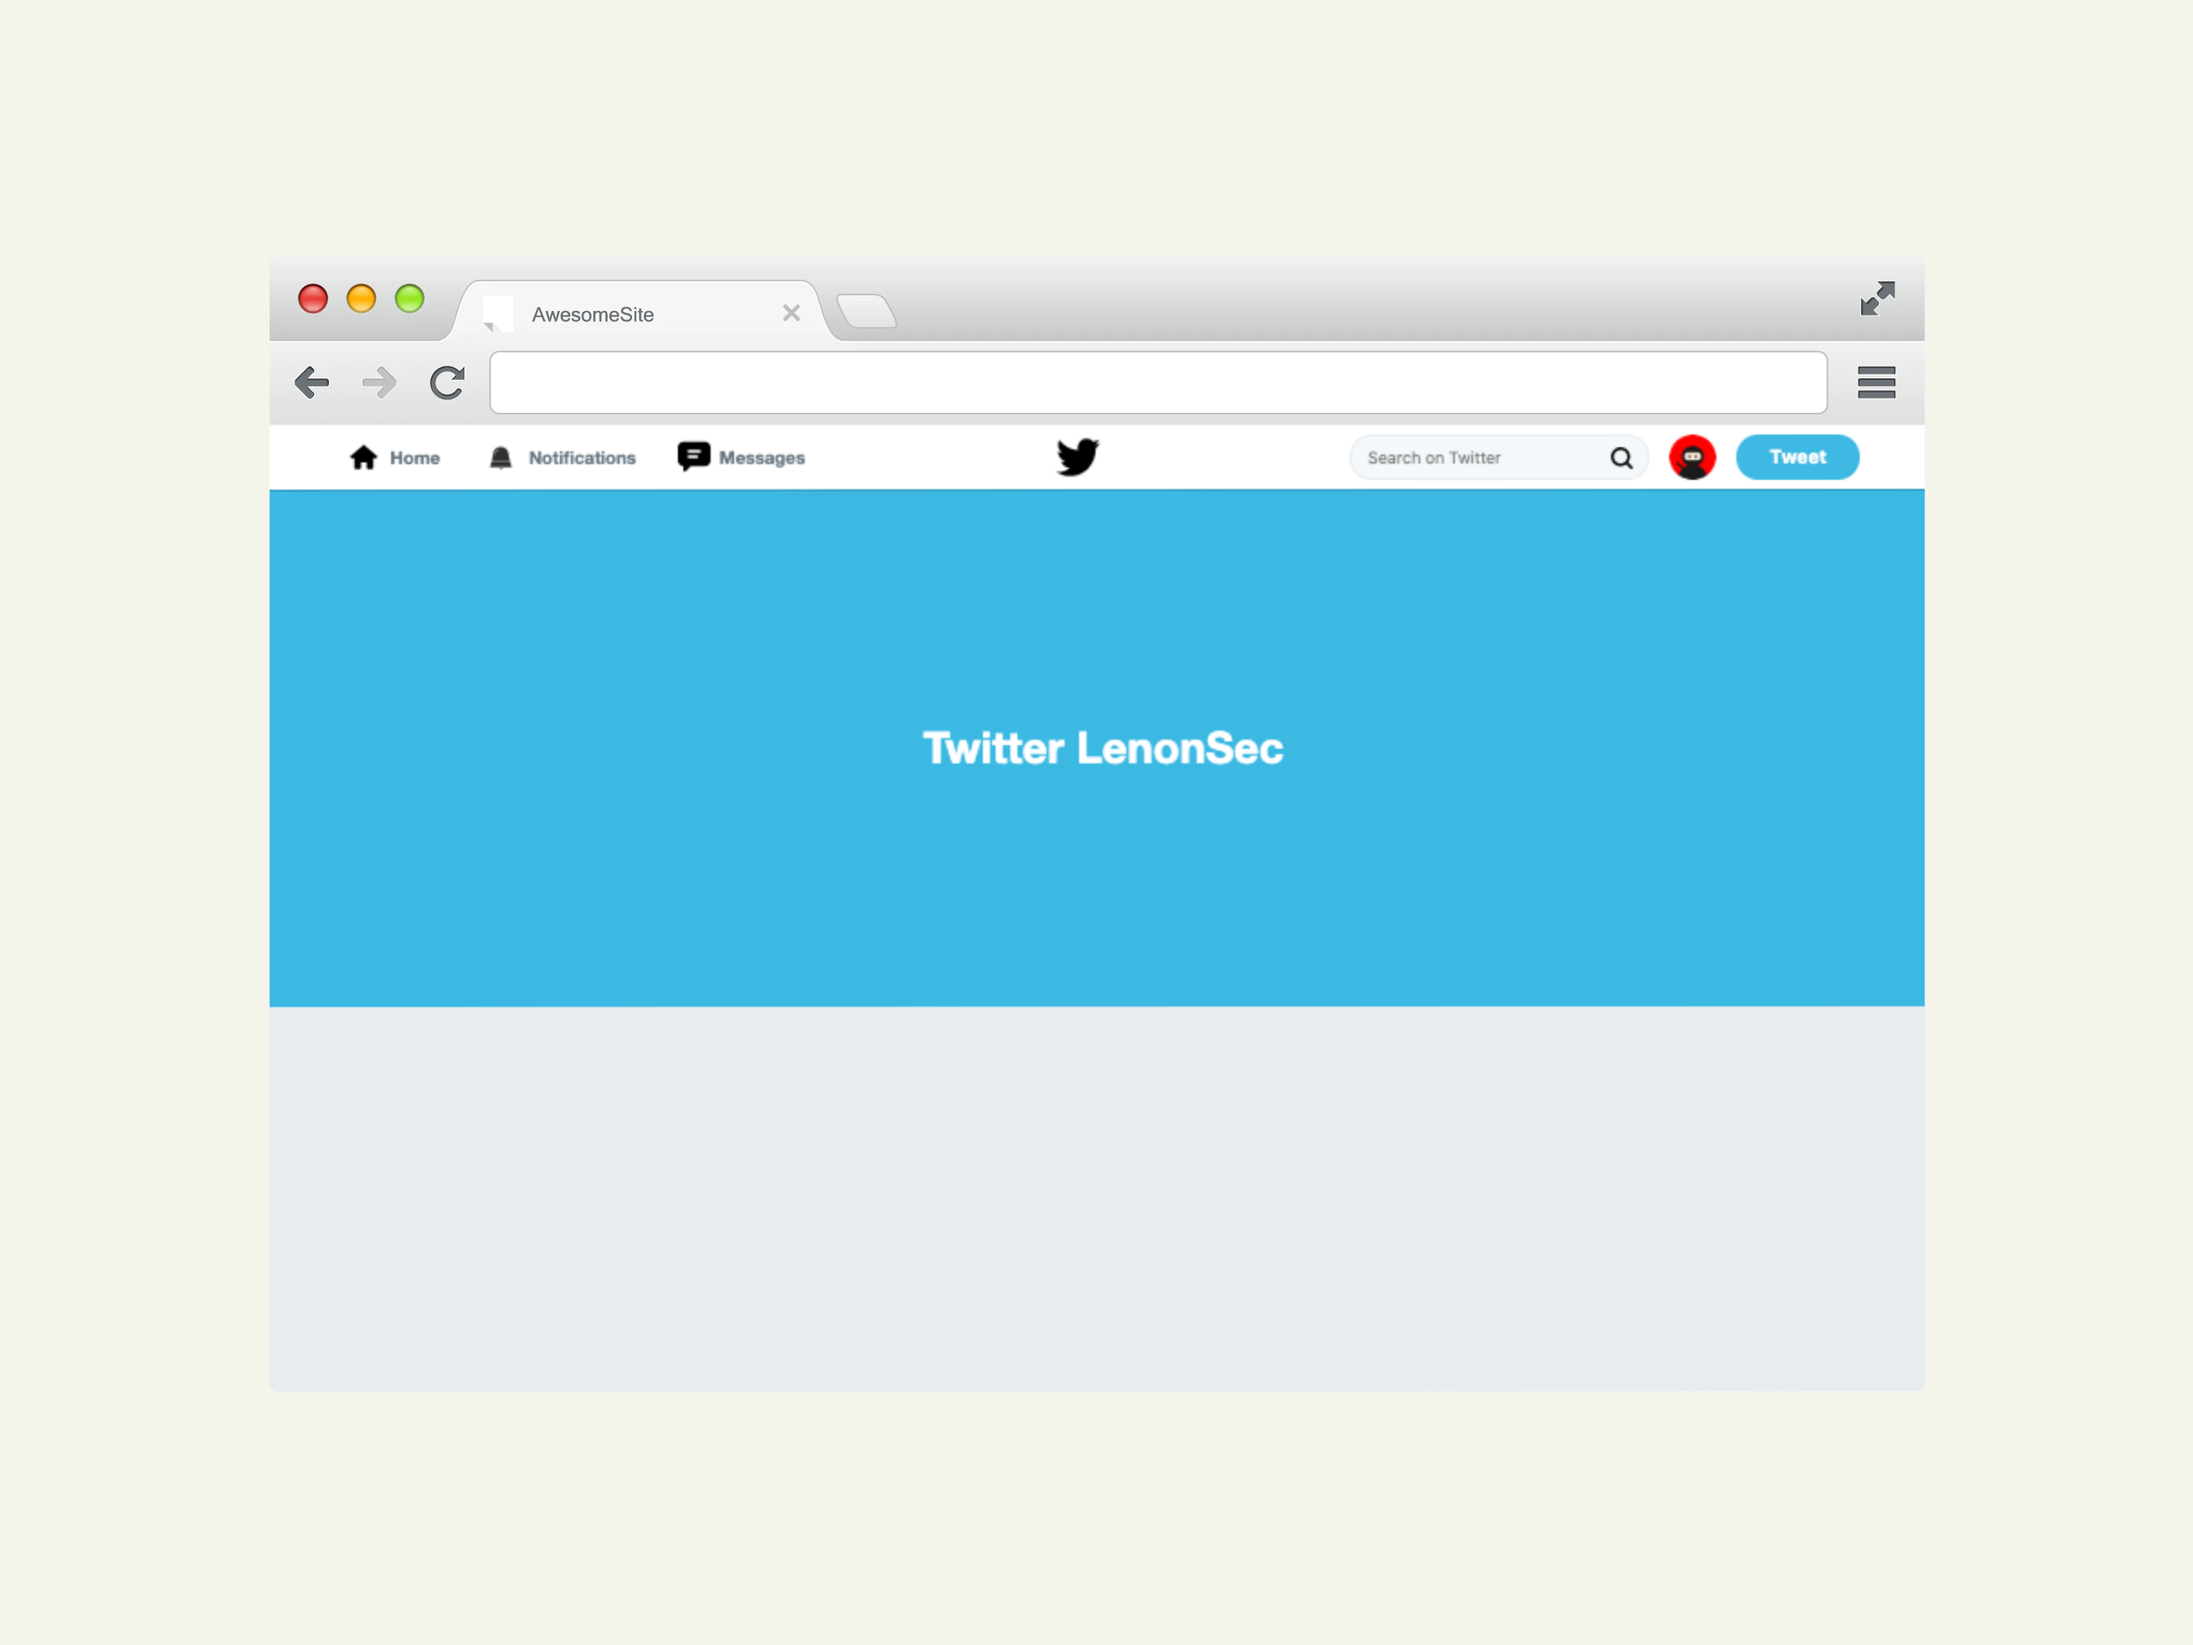
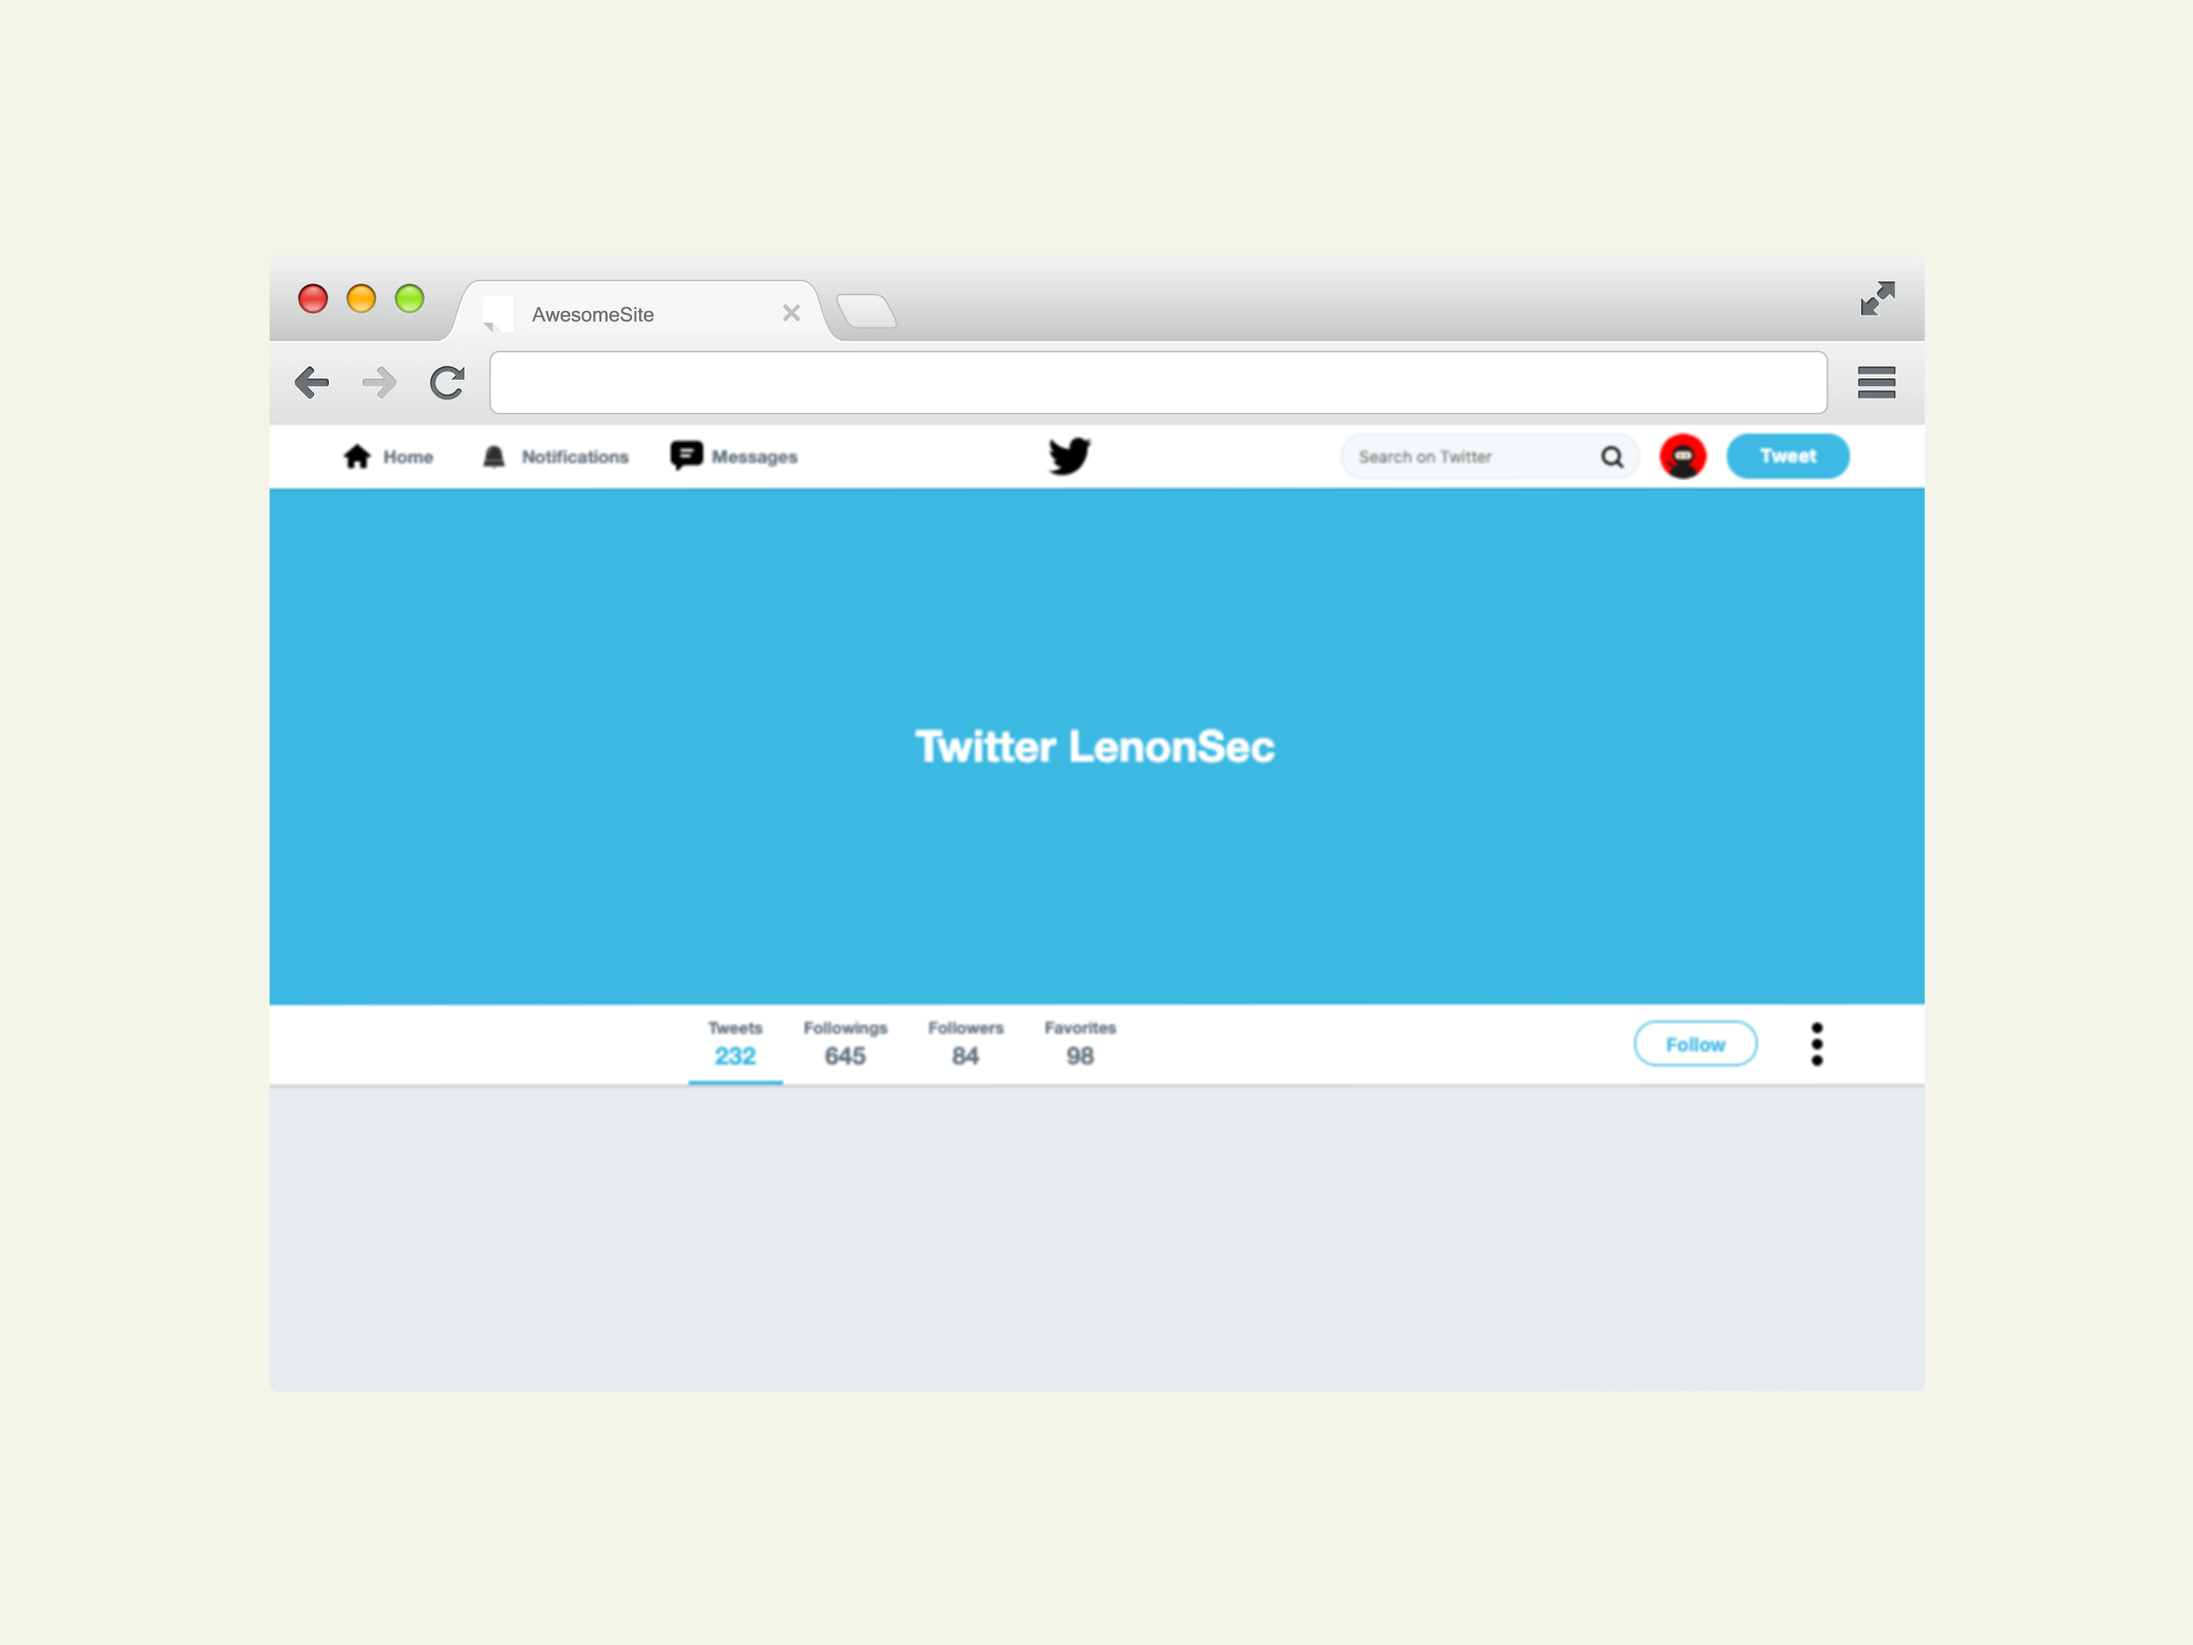
feat: Minibar

diff --git a/styles.css b/styles.css
@@ -107,3 +107,82 @@ div.banner {
 
     color: #FFF;
 }
+
+div.bar {
+    height: 59px;
+    background: #FFF;
+    box-shadow: 0 1px 3px rgba(0, 0, 0, 0.25 );
+}
+
+div.bar .content {
+    display: flex;
+    justify-content: space-between;
+    align-items: center;
+    padding-left: 285px;
+    height: 100%;
+}
+
+div.bar .content ul {
+    display: flex;
+    list-style: none;
+    height: 100%;
+}
+
+div.bar .content ul li {
+    display: flex;
+    flex-direction: column;
+    justify-content: center;
+    align-items: center;
+    padding: 0 15px;
+    position: relative;
+}
+
+div.bar .content ul li.active::after {
+    content: '';
+    width: 100%;
+    height: 2px;
+    position: absolute;
+    bottom: 0;
+    left: 0;
+    background: #3BB9E3;
+} 
+
+div.bar .content ul li span {
+    color: #667580;
+    font-size: 12px;
+    font-weight: bold;
+}
+
+div.bar .content ul li strong {
+    color: #667580;
+    font-size: 18px;
+    font-weight: bold;
+    margin-top: 2px;
+}
+
+div.bar .content ul li.active strong {
+    color: #3BB9E3;
+}
+
+div.bar .content .actions {
+    display: flex;
+    align-items: center;
+    justify-content: center;
+}
+
+div.bar .content .actions button {
+    height: 34px;
+
+    display: flex;
+    align-items: center;
+    justify-content: center;
+
+    width: 90px;
+    font-size: 14px;
+    font-weight: bold;
+    color: #3DB9E3;
+    border: 1px solid #3DB9E3;
+    border-radius: 16px;
+    
+    margin-right: 20px;
+}

diff --git a/index.html b/index.html
@@ -28,5 +28,33 @@
         <div class="banner">
             <h1>Twitter LenonSec</h1>
         </div>
+
+        <div class="bar">
+            <div class="content">
+                <ul>
+                    <li class="active">
+                        <span>Tweets</span>
+                        <strong>232</strong>
+                    </li>
+                    <li>
+                        <span>Followings</span>
+                        <strong>645</strong>
+                    </li>
+                    <li>
+                        <span>Followers</span>
+                        <strong>84</strong>
+                    </li>
+                    <li>
+                        <span>Favorites</span>
+                        <strong>98</strong>
+                    </li>
+                </ul>
+    
+                <div class="actions">
+                    <button>Follow</button>
+                    <img src="/images/more.svg" alt="More">
+                </div>
+            </div>
+        </div>
     </body>
 </html>
